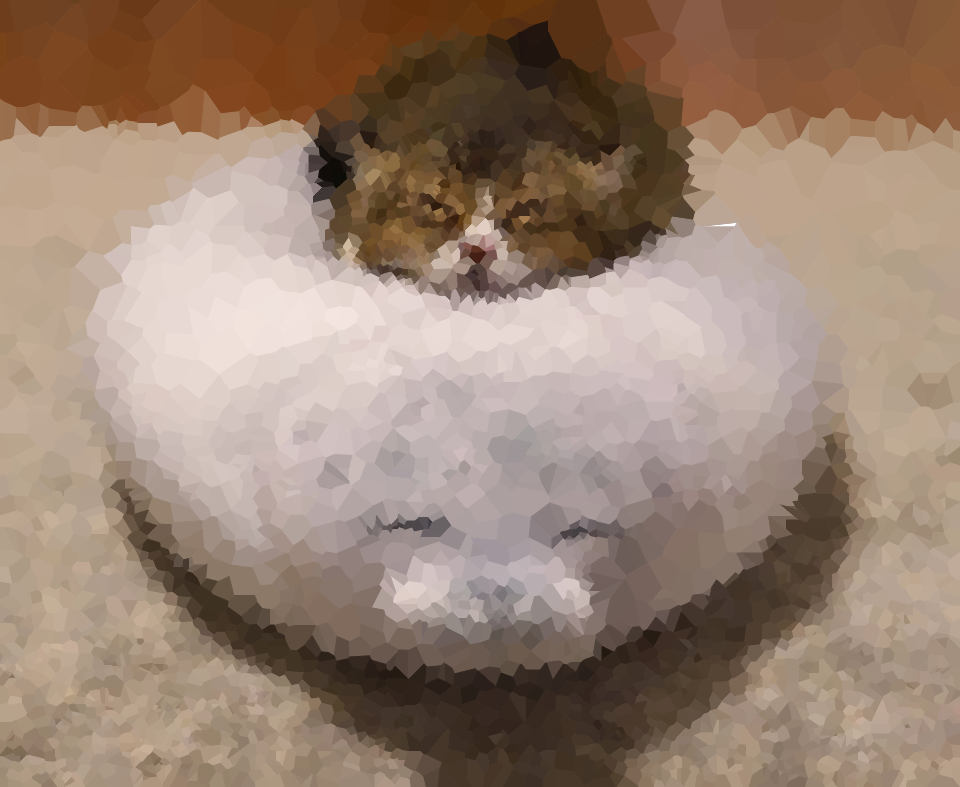
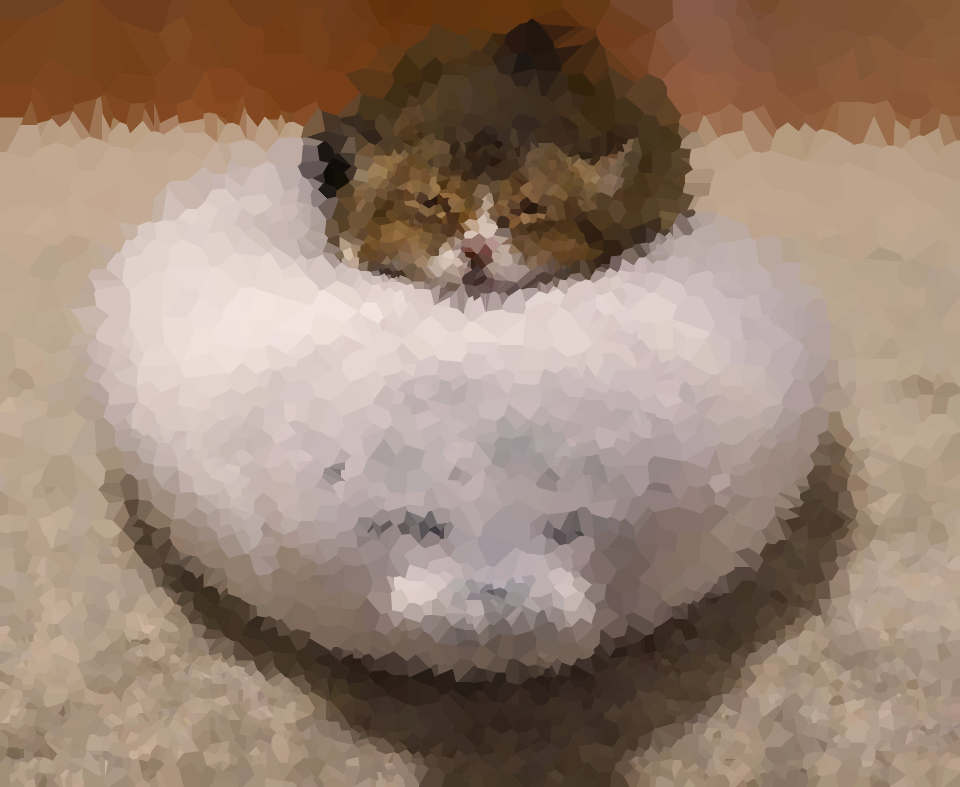
change parameter

diff --git a/src/components/ImageVoronoi.vue b/src/components/ImageVoronoi.vue
@@ -99,8 +99,10 @@ export default {
     drawVoronoi() {
       var iv = new VoronoiDrawer(this.canvas, this.num_sites * 40);
       if (this.ifRGB) {
+        iv.num_sites = (this.num_sites * 20);
         iv.RGBVoronoi(this.dosage);
       } else {
+        iv.num_sites = this.num_sites * 40;
         iv.FillVoronoi(0);
       }
     },
